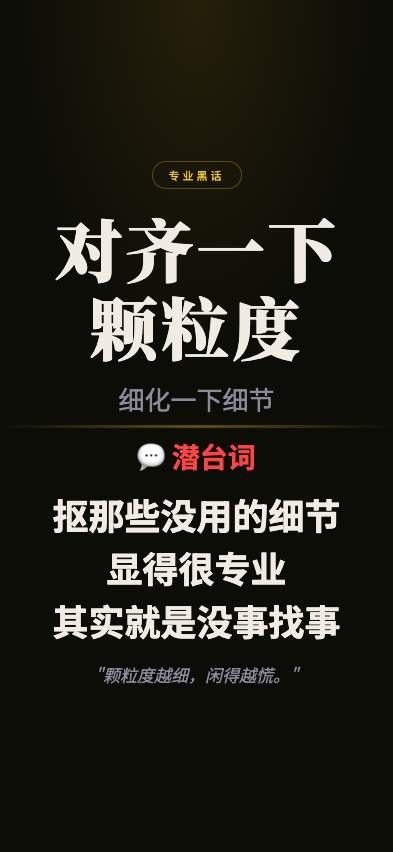
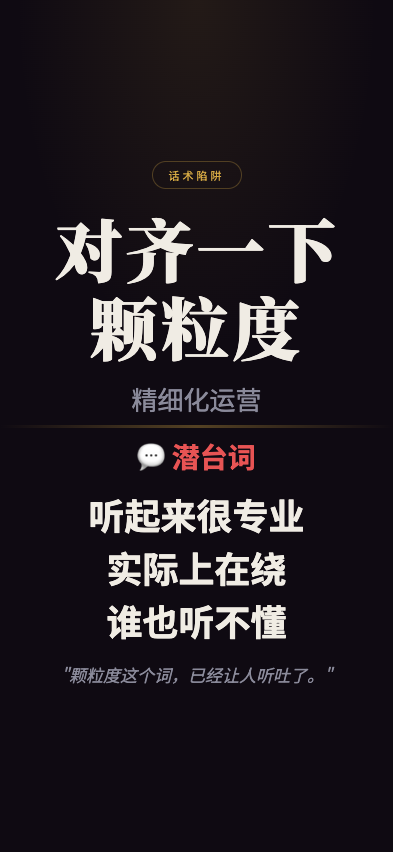
feat: 职场生存法则 screenshot - duiqiyixiakelidu

Changed region(s): [[0.1221, 0.5798, 0.855, 0.8239], [0.3053, 0.4577, 0.7023, 0.4883], [0.4275, 0.1831, 0.5802, 0.2136]]

diff --git a/wuliao-tools/tools/biz-speak/scenes/duiqiyixiakelidu.html b/wuliao-tools/tools/biz-speak/scenes/duiqiyixiakelidu.html
@@ -7,11 +7,11 @@
 <link href="https://fonts.googleapis.com/css2?family=Noto+Serif+SC:wght@400;700;900&family=Noto+Sans+SC:wght@300;400;700&display=swap" rel="stylesheet">
 <style>
   :root {
-    --bg: #0d0d08;
+    --bg: #0f0a12;
     --text: #f0ece4;
     --text-dim: #8a8a9a;
-    --gold: #f5c518;
-    --red: #ff4444;
+    --gold: #d4a843;
+    --red: #e85454;
   }
   * { margin:0; padding:0; box-sizing:border-box; }
   html, body { width:100%; height:100%; overflow:hidden; }
@@ -24,11 +24,11 @@
   }
   body::before {
     content:''; position:absolute; top:0; left:0; right:0; height:45%;
-    background:radial-gradient(ellipse at 50% 0%, rgba(245,197,24,0.1) 0%, transparent 65%);
+    background:radial-gradient(ellipse at 50% 0%, rgba(212,168,67,0.1) 0%, transparent 65%);
     pointer-events:none; z-index:0;
   }
   .top { flex:1; display:flex; flex-direction:column; align-items:center; justify-content:flex-end; padding:4px 28px 8px; position:relative; z-index:1; }
-  .tag { font-size:11px; letter-spacing:3px; color:var(--gold); border:1px solid rgba(245,197,24,0.3); padding:5px 16px; border-radius:50px; margin-bottom:20px; }
+  .tag { font-size:11px; letter-spacing:3px; color:var(--gold); border:1px solid rgba(212,168,67,0.3); padding:5px 16px; border-radius:50px; margin-bottom:20px; }
   .main-title { font-family:'Noto Serif SC'; font-size:68px; font-weight:900; text-align:center; line-height:1.15; letter-spacing:3px; min-width:0; overflow-wrap:break-word; max-width:92%; }
   .sub-title { font-size:26px; color:var(--text-dim); text-align:center; margin-top:14px; }
   .divider { width:100%; height:3px; background:linear-gradient(90deg,transparent,var(--gold),transparent); opacity:0.35; flex-shrink:0; position:relative; z-index:1; }
@@ -41,19 +41,19 @@
 </head>
 <body>
   <div class="top">
-    <div class="tag">专业黑话</div>
+    <div class="tag">话术陷阱</div>
     <div class="main-title">对齐一下颗粒度</div>
-    <div class="sub-title">细化一下细节</div>
+    <div class="sub-title">精细化运营</div>
   </div>
   <div class="divider"></div>
   <div class="bottom">
     <div class="truth-label">💬 潜台词</div>
     <div class="truth-lines">
-      <div class="truth-line">抠那些没用的细节</div>
-      <div class="truth-line">显得很专业</div>
-      <div class="truth-line">其实就是没事找事</div>
+      <div class="truth-line">听起来很专业</div>
+      <div class="truth-line">实际上在绕</div>
+      <div class="truth-line">谁也听不懂</div>
     </div>
-    <div class="quote">"颗粒度越细，闲得越慌。"</div>
+    <div class="quote">"颗粒度这个词，已经让人听吐了。"</div>
   </div>
 </body>
 </html>
